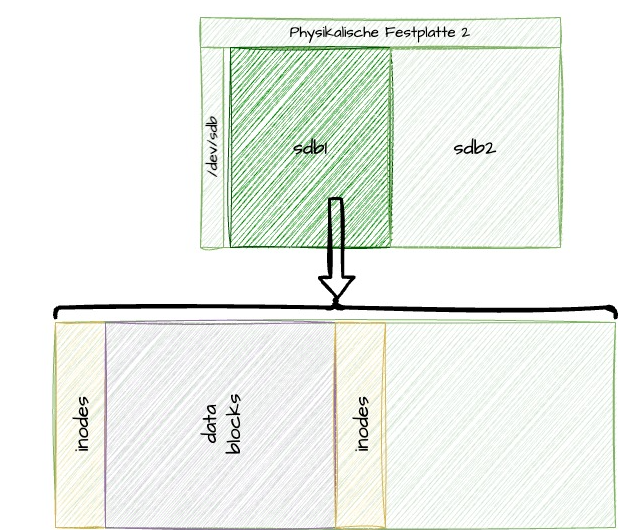
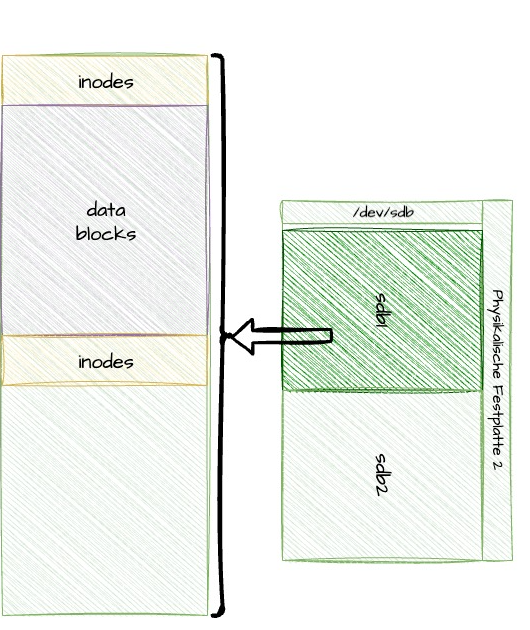
restructuring the rest

Changed region(s): [[0.0, 0.0302, 0.9962, 1.0], [0.6943, 0.7245, 0.7547, 0.7849]]

diff --git a/index.html b/index.html
@@ -163,6 +163,14 @@
         width: 45%;
         background-position: top left;
       }
+
+      .reveal:has(.present.trennblatt.use-img-BOXES):before {
+        content: ' ';
+        background-image: url('./images/boxes-within-boxes.jpg');
+        background-position: center center;
+        background-size: contain;
+        aspect-ratio: 1 / 1;
+      }
     </style>
   </head>
   <body>
@@ -383,10 +391,6 @@
           ></section>
         </section>
 
-        <!--<section class="trennblatt trennblatt-purple use-img use-img-picard">
-                <h3>Was vom Tage übrig blieb ...</h3>
-            </section>-->
-
         <section class="trennblatt trennblatt-green use-img use-img-sherlock">
           <h2>Where to find ... <span class="fragment">stuff</span></h2>
         </section>
@@ -417,6 +421,25 @@
           ></section>
         </section>
         <!-- End of Session3b -->
+
+        <section class="trennblatt trennblatt-purple use-img use-img-picard" id="der-rest">
+            <h3>Was vom Tage übrig blieb ...</h3>
+        </section>
+
+        <section>
+            <h4>Mögliche Themen</h4>
+            <ul style="line-height: 1.75em">
+                <li><a href="#/editors">Pagers + Editors</a> Dateien anschauen + editieren</li>
+                <li><a href="#/io-pipes">Piping/Chaining</a> pipes und wie man Kommandos verkettet</li>
+                <li><a href="#/scripting_00">Shell Scripting</a> Kontrollstrukturen und Best Practices</li>
+                <li><a href="#/filesystemss">Filesystem Basics</a> Aufbau und Mounten</li>
+                <li><a href="#/linux-dir-hirarchy">Linux Verzeichnis Hierarchie</a> Was liegt wo und warum im Verzeichnisbaum</li>
+                <li><a href="#/ssh-tricks-pt1">Kleine Tricks mit SSH</a> SSH und wie das Leben leichter wird</li>
+                <li><a href="#/regex-intro">RegEx und grep/vi...</a> Refresher RegEx + Dialekte</li>
+                <li><a href="#/fs-links">Filesystem - was sind Links</a> wie funktionieren soft/hard Links</li>
+            </ul>
+        </section>
+
 
         <section
           id="editors"
@@ -468,61 +491,69 @@
             data-markdown="session-03/vi-examples.md"
           ></section>
         </section>
-        <!-- End of session 3b -->
 
-        <section class="trennblatt trennblatt-blue use-img use-img-SOK">
-          <h2 class="c-orange">Vielen Dank und bis zum nächsten Mal!</h2>
+        <section>
+          <!-- session 3b -->
+          <section
+            id="logfiles"
+            data-markdown="session-03/logfiles.md"
+          ></section>
+          <section
+            id="tail"
+            data-background-image="images/dog-head-tail.jpg"
+            data-background-size="20%"
+            data-background-position="3% 97%"
+            data-markdown="session-03/tail.md"
+          ></section>
+          <section
+            id="more-or-less"
+            data-background-image="images/more-less-meme.jpg"
+            data-background-size="20%"
+            data-background-position="100% 50%"
+            data-markdown="session-03/more-or-less.md"
+          ></section>
+          <section
+            id="vi-intro"
+            data-background-image="images/exit-vim-orly.jpg"
+            data-background-size="20%"
+            data-background-position="92% 95%"
+            data-markdown="session-03/vi-intro.md"
+          ></section>
+          <section
+            id="vi-modes"
+            data-markdown="session-03/vi-modes.md"
+          ></section>
+          <section
+            id="vi-commands"
+            data-markdown="session-03/vi-commands.md"
+          ></section>
+          <section
+            id="vi-examples"
+            data-markdown="session-03/vi-examples.md"
+          ></section>
         </section>
 
         <section>
-          <!-- Session 4 -->
           <section
+            id="io-pipes"
             data-background-image="images/io-problems.jpg"
-            data-background-position="top center"
-            data-background-size="65%"
-          >
-            <hgroup
-              class="bg-lightblue-50 red pad-lg"
-              style="width: fit-content; margin-inline: auto"
-            >
-              <h3 class="red">Session 4.2 Input/Output</h3>
+            data-background-position="top left"
+            data-background-size="35%">
+              <h3 class="c-blue">Session 4.2 Input/Output</h3>
               <p>chaining stuff</p>
-            </hgroup>
           </section>
-          <section
-            id="io-redirection"
-            data-markdown="session-04/io-redirection.md"
-          ></section>
-          <section
-            id="io-chaining"
-            data-markdown="session-04/io-chaining.md"
-          ></section>
+          <section id="io-redirection" data-markdown="session-04/io-redirection.md"></section>
+          <section id="io-chaining" data-markdown="session-04/io-chaining.md"></section>
+        </section>
 
-          <section
-            id="scripting_00"
-            class="trennblatt trennblatt-green use-img use-img-fork-bomb"
-          >
-            <h2>
-              Session 4.3 Shell Scripting
-              <p style="font-size: 0.666em">scripting for the strong hearted</p>
-            </h2>
+          <section id="scripting_00" class="trennblatt trennblatt-green use-img use-img-fork-bomb">
+            <h2>Shell Scripting</h2>
+          </section>
+          <section>
+            <section id="scripting_01" data-markdown="session-04/shell-scripting.md"></section>
           </section>
 
-          <section
-            id="scripting_01"
-            data-markdown="session-04/shell-scripting.md"
-          ></section>
-
-          <section
-            class="trennblatt trennblatt-blue-light use-img use-img-theend"
-          >
-            <h3 class="red">
-              Session 4++
-              <p style="font-size: 0.666em">Der ganze Rest!</p>
-            </h3>
-          </section>
-
-          <section class="trennblatt trennblatt-pink use-img use-img-helloit">
+          <section id="filesystemss" class="trennblatt trennblatt-pink use-img use-img-helloit">
             <h3>
               Filesystems
               <p class="pink bg-brown">Admin basics ...</p>
@@ -530,54 +561,55 @@
           </section>
           <section>
             <section
-              id="filesystem"
-              data-markdown="session-04/filesystem.md"
-            ></section>
-            <section
-              id="filesystem-commands"
-              data-markdown="session-04/filesystem-commands.md"
-            ></section>
-            <section
-              id="linux-dir-hirarchy"
-              data-markdown="session-04/linux-dir-hirarchy.md"
-            ></section>
+                data-markdown="session-04/filesystem.md">
+            </section>
 
             <section
-              id="ssh-tricks-pt1"
-              data-background-image="images/forgot-password-meme.jpg"
-              data-background-size="20%"
-              data-background-position="bottom left"
-              data-markdown="session-04/ssh-tricks-pt1.md"
-            ></section>
-            <section
-              id="ssh-tricks-pt2"
-              data-background-image="images/ssh-excited.jpg"
-              data-background-size="18%"
-              data-background-position="top left"
-              data-markdown="session-04/ssh-tricks-pt2.md"
-            ></section>
+                data-markdown="session-04/filesystem-commands.md">
+            </section>
           </section>
 
-          <section class="trennblatt trennblatt-blue-light use-img use-img-MK">
-            <h2>
-              <p class="c-green">
-                ... and now for something completely different
-              </p>
-              Reg Ex
-            </h2>
-          </section>
+        <section
+            id="linux-dir-hirarchy"
+            data-markdown="session-04/linux-dir-hirarchy.md">
+        </section>
 
+        <section>
+            <section
+                id="ssh-tricks-pt1"
+                data-background-image="images/forgot-password-meme.jpg"
+                data-background-size="15%"
+                data-background-position="bottom left"
+                data-markdown="session-04/ssh-tricks-pt1.md">
+            </section>
+            <section
+                id="ssh-tricks-pt2"
+                data-background-image="images/ssh-excited.jpg"
+                data-background-size="18%"
+                data-background-position="top left"
+                data-markdown="session-04/ssh-tricks-pt2.md">
+            </section>
+        </section>
+
+        <section id="regex-intro" class="trennblatt trennblatt-blue-light use-img use-img-MK">
+        <h2>
+            <p class="c-palepink">
+            ... and now for something completely different
+            </p>
+            Reg Ex
+        </h2>
+        </section>
+        <section>
           <section
-            id="regex-intro"
             data-background-image="images/this-part-regex.jpg"
             data-background-position="bottom right"
             data-background-size="25%"
-            data-markdown="session-04/regex-intro.md"
-          ></section>
+            data-markdown="session-04/regex-intro.md">
+        </section>
           <section
             id="regex-chars"
-            data-markdown="session-04/regex-chars.md"
-          ></section>
+            data-markdown="session-04/regex-chars.md">
+        </section>
 
           <section
             id="regex-quantifiers"
@@ -600,39 +632,38 @@
             data-markdown="session-04/regex-exercise-01.md"
           ></section>
           <section
-            id="regex-exercises"
+            id="regex-exercises2"
             data-markdown="session-04/regex-exercise-02.md"
           ></section>
         </section>
-        <!-- End of Session 4-->
+
+        <!-- Backup
+        <section class="trennblatt trennblatt-black">
+          <h2 class="c-white">Backup (Session ??)</h2>
+        </section>
+        -->
+        <section id="fs-links" class="trennblatt trennblatt-green-light use-img use-img-BOXES">
+          <h3>Filesystem Aufbau &amp;<br />Was sind Links?</h3>
+        </section>
 
         <section>
-          <!-- Backup -->
-          <section class="trennblatt trennblatt-black">
-            <h2 class="c-white">Backup (Session ??)</h2>
-          </section>
-
-          <section class="trennblatt trennblatt-green-light">
-            <h3>Filesystem Aufbau &amp;<br />Was sind Links?</h3>
-          </section>
-
           <section
             id="inodes-beschreibung"
-            data-markdown="session-backup/inodes-beschreibung.md"
-          ></section>
+            data-markdown="session-backup/inodes-beschreibung.md">
+        </section>
           <section
             id="inodes-bild-1"
-            data-markdown="session-backup/inodes-bild-1.md"
-          ></section>
+            data-markdown="session-backup/inodes-bild-1.md">
+        </section>
           <section
             id="inodes-bild-2"
-            data-markdown="session-backup/inodes-bild-2.md"
-          ></section>
+            data-markdown="session-backup/inodes-bild-2.md">
+        </section>
 
           <section
             id="regex-comparison"
-            data-markdown="session-backup/regex-comparison.md"
-          ></section>
+            data-markdown="session-backup/regex-comparison.md">
+        </section>
 
           <section
             id="end"

diff --git a/session-04/ssh-tricks-pt1.md b/session-04/ssh-tricks-pt1.md
@@ -8,6 +8,7 @@
     - mit neuer encrypt. `ssh-keygen -t ed25519 -a 100` oder
     - mit alter encrypt. `ssh-keygen -t rsa -b 4096 -o -a 100`
 1. kopiere den Inhalt d. öffentl. Schlüsseldatei auf den Server, dort ans Ende der Datei `.ssh/authorized_keys`.
+
 Beim Erstellen der Datei auf 600 setzen
 ```bash
 # .ssh Verz. auf remote Server erstellen
@@ -17,13 +18,13 @@ cat .ssh/my-public-keyfile | ssh user@server "tee >> .ssh/authorized_keys"
 # mache die Datei nur für den Besitzer lesbar
 ssh user@server "chmod 600 .ssh/authorized_keys"
 ```
-ab jetzt wirst Du beim Login nur noch nach der Passphrase des Schlüssels gefragt!<!-- .element class="fragment" style="color:darkgreen;" -->
+ab jetzt wirst Du beim Login nur noch nach der Passphrase des Schlüssels gefragt!<!-- .element class="fragment c-blue" -->
 
 1. nach jedem Reboot Deines Systems den priv. Schlüssel in Deinen `ssh-agent`.
     1. Auf dem Mac zB mit `ssh-add --apple-use-keychain ~/.ssh/private-keyfile`<br/>
     1. Auf Linux erst &nbsp; `eval $(ssh-agent)` &nbsp; um den ssh-agent zu starten
        und dann `ssh-add ~/.ssh/private-keyfile`.
 
-ab jetzt wirst Du nicht mehr nach der Passphrase des Schlüssels gefragt!<!-- .element class="fragment" style="color:darkgreen;" -->
+ab jetzt wirst Du nicht mehr nach der Passphrase des Schlüssels gefragt!<!-- .element class="fragment c-blue" -->
 
 </div>

diff --git a/session-04/linux-dir-hirarchy.md b/session-04/linux-dir-hirarchy.md
@@ -14,9 +14,9 @@
   +-[usr]         # **u**nix **s**ystem **r**esources
   |   +-[bin]     # binaries
   |   +-[sbin]    # admin binaries
-  +-[local]       # mounten von lokalen Besonderh.
-  |   +-[bin]     # binaries
-  |   +-[sbin]    # admin binaries
+  |  +-[local]       # mounten von lokalen Besonderh.
+  |       +-[bin]     # binaries
+  |       +-[sbin]    # admin binaries
   +-[var]         # sich häufig ändernde Daten
       +-[log]     # logfiles
       +-[lock]    # lockfiles

diff --git a/session-03/vi-commands.md b/session-03/vi-commands.md
@@ -3,7 +3,7 @@
 | Ex Command    | Erklärung                          |
 |---------------|------------------------------------|
 |`:w`           | write (=save)                      |
-|`:w new-file`  | write to changes to "new-file".    |
+|`:w new-file`  | write changes to "new-file".       |
 |`:q`           | quit (no saving)                   |
 |`:wq`          | write and quit                     |
 |`:q!`          | quit no saving even if file changed|

diff --git a/session-04/filesystem-commands.md b/session-04/filesystem-commands.md
@@ -9,4 +9,4 @@ cat /etc/mtab                       # statische Tabelle aller gemounteten Volume
 
 Ich spreche hier von "volumes", das meint irgend eine Art von "storage", die auf einer klassischen
 HD zB einer Partition entspräche. Ggf. aber auch Netzwerk-Shares (NFS, CIFS), SAN oder NAS Volumes
-... sein können <!-- .element class="ta-right" style="font-size: 0.55em; width: 55%; float: right" -->
+... sein können

diff --git a/session-backup/inodes-bild-2.md b/session-backup/inodes-bild-2.md
@@ -1,3 +1,4 @@
+
 ### Dateisysteme Bild 2
 
-<img src="images/hd-chart-fs-structure-02.png" style="height: 620px;aspect-ratio:auto;" />
+<img src="images/hd-chart-fs-structure-02.png" style="height:620px;" />

diff --git a/session-backup/inodes-bild-1.md b/session-backup/inodes-bild-1.md
@@ -1,3 +1,3 @@
 ### Dateisysteme Bild 1
 
-<img src="images/hd-chart-fs-structure-01.png" style="height: 620px;aspect-ratio:auto;" />
+<img src="images/hd-chart-fs-structure-01.png" style="height: 620px" />

diff --git a/session-04/filesystem.md b/session-04/filesystem.md
@@ -31,3 +31,5 @@
     <code data-fragment-index="1" class="fragment hd-tag" id="tag-2">/dev/sdb</code>
     <div  data-fragment-index="2" class="fragment fade-out hide-chart"></div>
 </div>
+
+---
